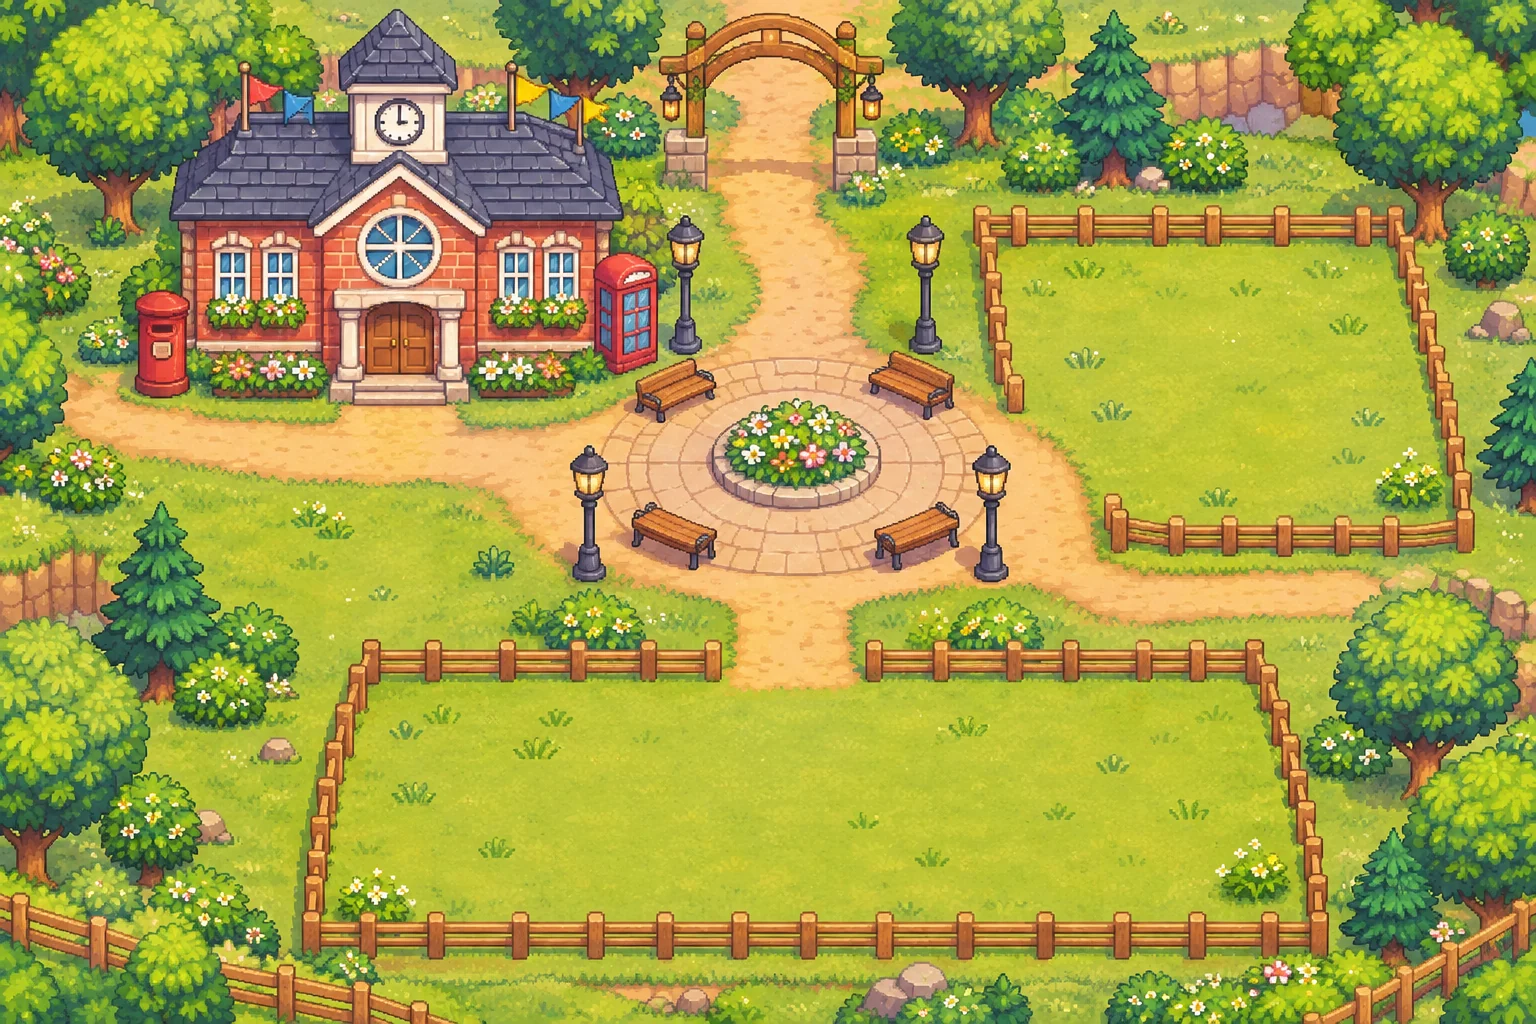
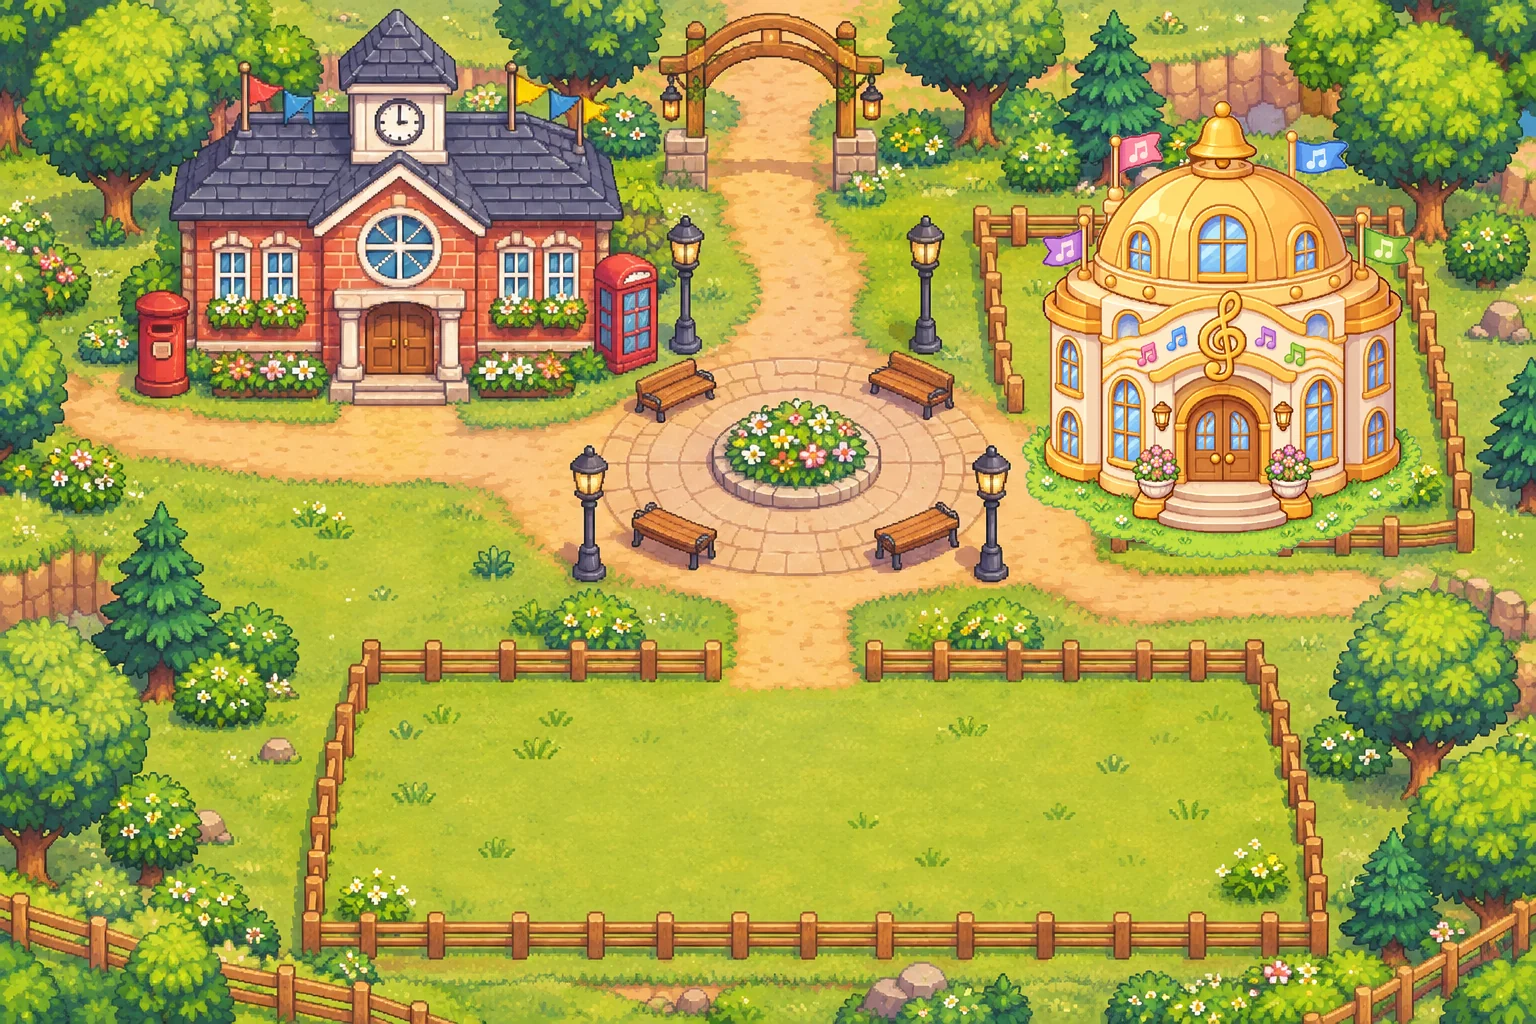
Place the music hall on 교과 언덕 and build its rooms from the art
make_art.py cuts the gray background off the music hall drawing and
places it on the right lot of the original 교과 언덕 image, so the area
map stays as it was and future subject buildings can be added the same
way. It also clears the gray border around the three music room
drawings. The rooms are traced on a 25x20 grid with 라라 선생님 inside;
the hall's door opens the grade picker, and the temporary picker
window is gone.

Claude-Session: https://claude.ai/code/session_015rRJ5HYZpVswbA4n6xguLu

Changed region(s): [[0.6562, 0.0938, 0.9375, 0.5625]]

diff --git a/village/js/maps.js b/village/js/maps.js
@@ -176,10 +176,10 @@ const Maps = (() => {
     doors: [
       { id: "engschool", x: 11, y: 11, w: 2, out: { x: 11, y: 13, dir: "down" }, pick: ["eng12", "eng34", "eng56"], name: "영어 학교", emoji: "🔤" },
       { id: "hill", x: 23, y: 2, w: 3, to: "hill", out: { x: 24, y: 4, dir: "down" }, name: "배움 동산", emoji: "📚" },
-      // 오른쪽 빈 땅: 음악당 자리. 건물 그림이 오기 전까지는 울타리 앞에서 음악 방 고르기 창이 열려요.
-      { id: "musichall", x: 36, y: 16, w: 2, activity: "mushub", out: { x: 36, y: 18, dir: "up" }, name: "음악당", emoji: "🎵" }
+      // 오른쪽 땅: 음악당(그림은 tools/village/make_art.py가 교과 언덕 그림 위에 올려요)
+      { id: "musichall", x: 37, y: 16, w: 2, out: { x: 37, y: 18, dir: "down" }, pick: ["mus12", "mus34", "mus56"], name: "음악당", emoji: "🎵" }
     ],
-    areas: [{ id: "engschool", r: [5, 0, 19, 10] }],
+    areas: [{ id: "engschool", r: [5, 0, 19, 10] }, { id: "musichall", r: [32, 3, 44, 16] }],
     spawn: { x: 24, y: 4, dir: "down" },
     npcs: [
       { id: "jenny", name: "제니 선생님", x: 15, y: 14, dir: "down",
@@ -202,6 +202,22 @@ const Maps = (() => {
       stations: [{ x: 8, y: 7, w: 8, h: 3, activity: id, label: "📝 미션 탁자" }],
       npcs: [{ id: "jenny", name: "제니 선생님", x: 5, y: 9, dir: "right", activity: id, actionLabel: "📝 미션 시작",
         lines: ["Hello! 여기는 " + q.name + "이야.", "가운데 탁자에서 영어 미션을 풀 수 있어. 10문제 중 8문제를 맞히면 통과!", "영어 낱말은 🔊 소리로 들려줄게. Let's go!"] }]
+    };
+  });
+
+  // 음악 방: 그림 1402x1122를 25x20칸으로 나눠요. 아래 가운데 문, 가운데 긴 탁자(의자 포함)는 같아요.
+  const MUS_ROOMS = {
+    mus12: { name: "노래 놀이방", emoji: "🥁", solid: [[3, 8, 4, 13], [20, 8, 22, 11], [21, 12, 22, 13]] },
+    mus34: { name: "악기 연습실", emoji: "🎼", solid: [[3, 8, 4, 12], [3, 13, 3, 14], [21, 10, 22, 13], [22, 8, 22, 9]] },
+    mus56: { name: "작은 공연장", emoji: "🎹", solid: [[3, 9, 3, 11], [21, 9, 22, 11], [22, 12, 22, 14]] }
+  };
+  Object.entries(MUS_ROOMS).forEach(([id, q]) => {
+    ROOMS[id] = {
+      name: q.name, emoji: q.emoji, parent: "subjects", w: 25, h: 20, floor: [3, 8, 22, 14], extra: [[10, 15, 14, 15]], door: { x: 11, y: 16, w: 3 },
+      solid: q.solid.concat([[8, 8, 16, 13]]),
+      stations: [{ x: 8, y: 8, w: 9, h: 6, activity: id, label: "📝 미션 탁자" }],
+      npcs: [{ id: "lala", name: "라라 선생님", x: 5, y: 10, dir: "right", activity: id, actionLabel: "📝 미션 시작",
+        lines: ["안녕! 여기는 " + q.name + "이야.", "가운데 탁자에서 음악 미션을 풀 수 있어. 10문제 중 8문제를 맞히면 통과!", "소리 문제는 🔊 다시 듣기를 눌러 몇 번이든 들어 봐."] }]
     };
   });
 

diff --git a/village/js/q-music.js b/village/js/q-music.js
@@ -218,20 +218,4 @@
     ]
   });
 
-  // 🎵 음악당 입구: 학년을 골라 음악 방으로 가요.
-  // (음악당 건물 그림이 오기 전까지는 교과 언덕 오른쪽 빈 땅 앞에서 이 창이 열려요)
-  Activities.register("mushub", ({ el, frame, ctx }) => {
-    const root = frame("🎵 음악당: 몇 학년 방으로 갈까요?");
-    root.append(Quiz.npcBanner(el, Quiz.NPCS.mus, "안녕! 나는 라라 선생님이야. 귀를 쫑긋! 소리를 잘 듣고 맞혀 보자!"));
-    const row = el("div", "qz-missions");
-    Quiz.rooms.filter((r) => r.id.startsWith("mus")).forEach((r) => {
-      const p = ctx.getProgress(r.id) || { done: [] };
-      const all = p.done.length === r.missions.length;
-      const b = el("button", "qz-mission" + (all ? " done" : ""), "<span>" + r.e + "</span><b>" + r.grade.replace(/^\S+ /, "") + "</b><small>" + r.title + " · " + (all ? "✅ 도장" : "미션 " + p.done.length + "/" + r.missions.length) + "</small>");
-      b.onclick = () => { ctx.sfx("door"); Activities.open(r.id); };
-      row.append(b);
-    });
-    root.append(row);
-    ctx.speak("음악당이에요. 몇 학년 방으로 갈까요?");
-  });
 })();

diff --git a/village/sw.js b/village/sw.js
@@ -1,7 +1,7 @@
 // 꼬마 발명가 마을 오프라인 지원
 // 인터넷이 되면 항상 새 버전을 받아 오고, 안 되면 저장해 둔 버전을 보여 줘요.
 // (친구들과 함께 놀기는 인터넷이 있어야 해요. 혼자 둘러보기는 저장분으로도 돼요.)
-const CACHE = "village-v15";
+const CACHE = "village-v16";
 const FILES = [
   "./",
   "./index.html",
@@ -39,6 +39,9 @@ const FILES = [
   "./assets/eng12.webp",
   "./assets/eng34.webp",
   "./assets/eng56.webp",
+  "./assets/mus12.webp",
+  "./assets/mus34.webp",
+  "./assets/mus56.webp",
   "./assets/npc/chief.webp",
   "./assets/npc/bolt.webp",
   "./assets/npc/snap.webp",
@@ -49,6 +52,7 @@ const FILES = [
   "./assets/npc/semsem.webp",
   "./assets/npc/mallang.webp",
   "./assets/npc/jenny.webp",
+  "./assets/npc/lala.webp",
   "./icons/icon-192.png",
   "./icons/icon-512.png",
   "./icons/icon-180.png"

diff --git a/tools/village/make_art.py b/tools/village/make_art.py
@@ -1,0 +1,45 @@
+# 배경 그림 손질: tools/village/art/의 원본으로 village/assets/ 그림을 만들어요.
+# - 교과 언덕: subjects-base.png(빈 땅 그림) 위에 건물 그림(회색 배경을 지운 것)을 올려 subjects.webp를 만들어요.
+#   새 교과 건물을 넣을 때는 BUILDINGS에 한 줄 추가하고 다시 실행해요. 지도(maps.js)의 막힌 칸·문도 함께 고쳐요.
+# - 회색 바탕으로 온 방 그림(음악 방 등): 가장자리 회색을 지워 투명하게 만들어요. 게임에서는 방 바깥이 어두운색으로 보여요.
+# 실행: python3 tools/village/make_art.py
+from pathlib import Path
+from PIL import Image
+import cut_npcs  # 같은 폴더의 배경 지우기 도구
+
+HERE = Path(__file__).resolve().parent
+ART = HERE / "art"
+OUT = HERE.parents[1] / "village" / "assets"
+
+# (그림 파일, 건물 아래 가운데 x, 건물 아래 y, 건물 너비) — 교과 언덕 그림(1536x1024) 픽셀 기준
+BUILDINGS = [
+    ("musichall.png", 1222, 560, 400),
+]
+GRAY_ROOMS = ["mus12", "mus34", "mus56"]
+
+
+def cutout(path):
+    im = Image.open(path).convert("RGBA")
+    w, h = im.size
+    px = im.load()
+    edge = [(x, y) for x in range(w) for y in (0, h - 1)] + [(x, y) for y in range(h) for x in (0, w - 1)]
+    near = lambda p, prev: cut_npcs.gray(p) and all(abs(a - b) <= cut_npcs.STEP for a, b in zip(p[:3], prev[:3]))
+    cut_npcs.flood(px, w, h, [(x, y, px[x, y]) for x, y in edge], near)
+    return im
+
+
+def main():
+    base = Image.open(ART / "subjects-base.png").convert("RGBA")
+    for name, cx, bottom, width in BUILDINGS:
+        b = cutout(ART / name)
+        b = b.crop(b.getchannel("A").getbbox())
+        b = b.resize((width, round(b.height * width / b.width)), Image.LANCZOS)
+        base.alpha_composite(b, (cx - width // 2, bottom - b.height))
+    base.convert("RGB").save(OUT / "subjects.webp", "WEBP", quality=86, method=6)
+    for room in GRAY_ROOMS:
+        cutout(ART / f"{room}.png").save(OUT / f"{room}.webp", "WEBP", quality=86, method=6)
+    print("ok")
+
+
+if __name__ == "__main__":
+    main()

diff --git a/tools/village/cut_npcs.py b/tools/village/cut_npcs.py
@@ -10,7 +10,7 @@ from pathlib import Path
 from PIL import Image
 
 OUT = Path(__file__).resolve().parents[2] / "village" / "assets" / "npc"
-NAMES = ["chief", "bolt", "sprout", "snap", "luna", "tinker", "farmer", "semsem", "mallang", "jenny"]
+NAMES = ["chief", "bolt", "sprout", "snap", "luna", "tinker", "farmer", "semsem", "mallang", "jenny", "lala"]
 HEIGHT = 180  # 저장할 그림 높이(px)
 STEP = 7      # 이웃 칸과 이만큼(채널마다) 넘게 다르면 배경이 아니에요
 

diff --git a/README.md b/README.md
@@ -114,6 +114,10 @@
   - 🔤 영어 3-4 알파벳 교실: 듣고 고르기, 인사와 표현, 숫자 영어, 빈칸 철자, 낱말 뜻
   - ☕ 영어 5-6 영어 카페: 문장 완성(am/is/are, have/has), 묻고 답하기, 요일과 달, 시각 말하기, 짧은 글 읽기
   - 영어 낱말·문장은 영어 목소리로 읽어 줘요(기기에 영어 음성이 있어야 해요).
+- 🎵 음악당(교과 언덕 오른쪽, 라라 선생님): 학년을 골라 음악 방으로 가요. 소리 문제는 실제 음을 들려주고(질문을 읽은 뒤 울려요, 🔊 다시 듣기로 소리만 다시), 듣는 동안 배경 음악은 잠깐 꺼져요.
+  - 🥁 음악 1-2 노래 놀이방: 높은 소리·낮은 소리, 빠르게·느리게, 크게·작게, 악기 이름, 소리 세기
+  - 🎼 음악 3-4 악기 연습실: 계이름 듣기, 음표 길이, 박자 느끼기, 악기 분류(타·현·관악기), 리듬 찾기
+  - 🎹 음악 5-6 작은 공연장: 장조와 단조, 셈여림, 빠르기말, 국악기(사물놀이 포함), 화음 듣기
 - 📚 배움 동산(마을 아래쪽 길 끝으로 가는 새 지역): 🔢 수학 탑(셈셈 박사)과 📖 국어 도서관(말랑 작가). 건물 문에 들어가면 학년(1-2, 3-4, 5-6)을 골라 그 방으로 가요. 위쪽 길이나 아래쪽 문으로 마을에 돌아가요. 교과 수학·국어 방 6개. 1년 전체 단원에서 나와요. 방마다 미션 5개, 미션은 10문제 중 8문제를 맞히면 통과, 미션을 모두 통과하면 도장(모두 12개).
   - 🧸 수학 1-2 숫자 놀이방: 수 세기(세 자리 수까지), 덧셈·뺄셈, 시계 보기, 여러 가지 도형, 곱셈구구
   - ⚖ 수학 3-4 측정 공방: 곱셈·나눗셈(나머지), 분수와 소수, 길이·들이·무게·시간 단위, 각도와 삼각형·사각형, 큰 수
@@ -133,7 +137,9 @@
 - `village/js/avatar.js`: 학생 픽셀 캐릭터(피부·머리 모양·머리색·옷색·꾸미기)
 - `village/js/activities.js`: 활동 창 공통 부분과 로봇 조종·자석 실험. 단계(`LEVELS`)와 물건(`ITEMS`)을 여기서 고쳐요.
 - `village/js/quiz.js`: 배움 동산 문제 방 공통 틀(미션 고르기, 5문제 풀기, 숫자 패드, 시계·분수·각도·도형 그림)
-- `village/js/q-math.js`, `village/js/q-korean.js`, `village/js/q-english.js`: 수학·국어·영어 방 9개의 미션과 문제(만드는 규칙과 문제 은행). 문제를 고치거나 늘릴 때 여기를 고쳐요.
+- `village/js/q-math.js`, `village/js/q-korean.js`, `village/js/q-english.js`: 수학·국어·영어 방 9개(음악 방은 아래 q-music.js)의 미션과 문제(만드는 규칙과 문제 은행). 문제를 고치거나 늘릴 때 여기를 고쳐요.
+- `village/js/q-music.js`: 음악 방 3개의 미션과 문제. 소리는 `play: [{ f: 주파수, at: 시작 초, d: 길이 }]`로 적어요.
+- `tools/village/make_art.py`, `tools/village/art/`: 교과 언덕 원본(빈 땅) 위에 새 교과 건물 그림을 올려 `subjects.webp`를 만들고, 회색 바탕으로 온 방 그림의 바깥을 지워요. 새 교과 건물은 `BUILDINGS`에 한 줄 넣고 다시 실행해요.
 - `village/js/act-garden.js`, `act-greenhouse.js`, `act-observatory.js`, `act-workshop.js`: 반복 정원, 관찰 온실, 별 관측소, 발명 공방 활동. 단계·문제·부품이 파일 맨 위에 있어요.
 - `village/js/net.js`: 여러 명 연결. Firebase로 바꿀 때는 이 파일에 전송 방법만 하나 더 만들면 돼요.
 - `village/js/main.js`: 화면, 움직이기, 대화, 소리, 선생님 패널
